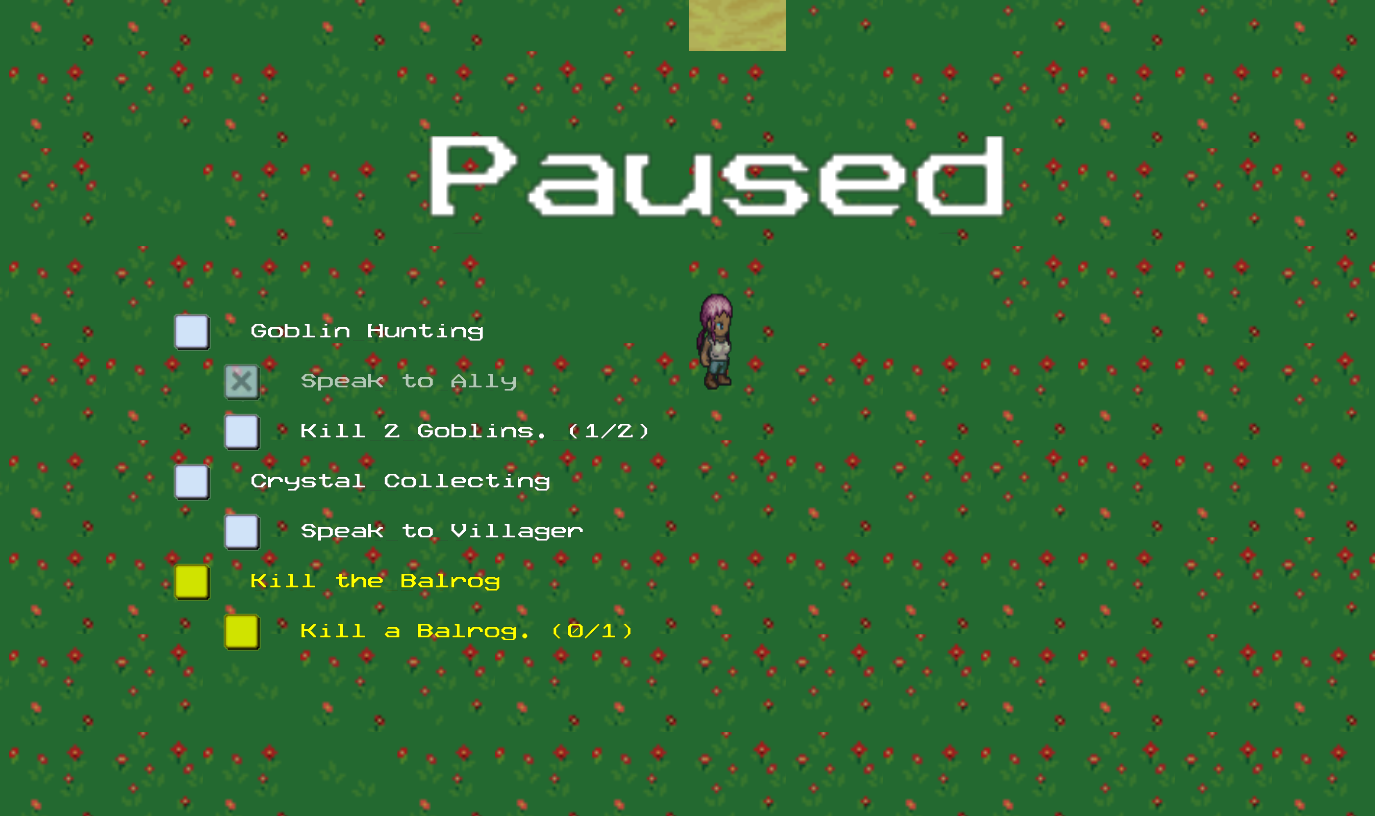
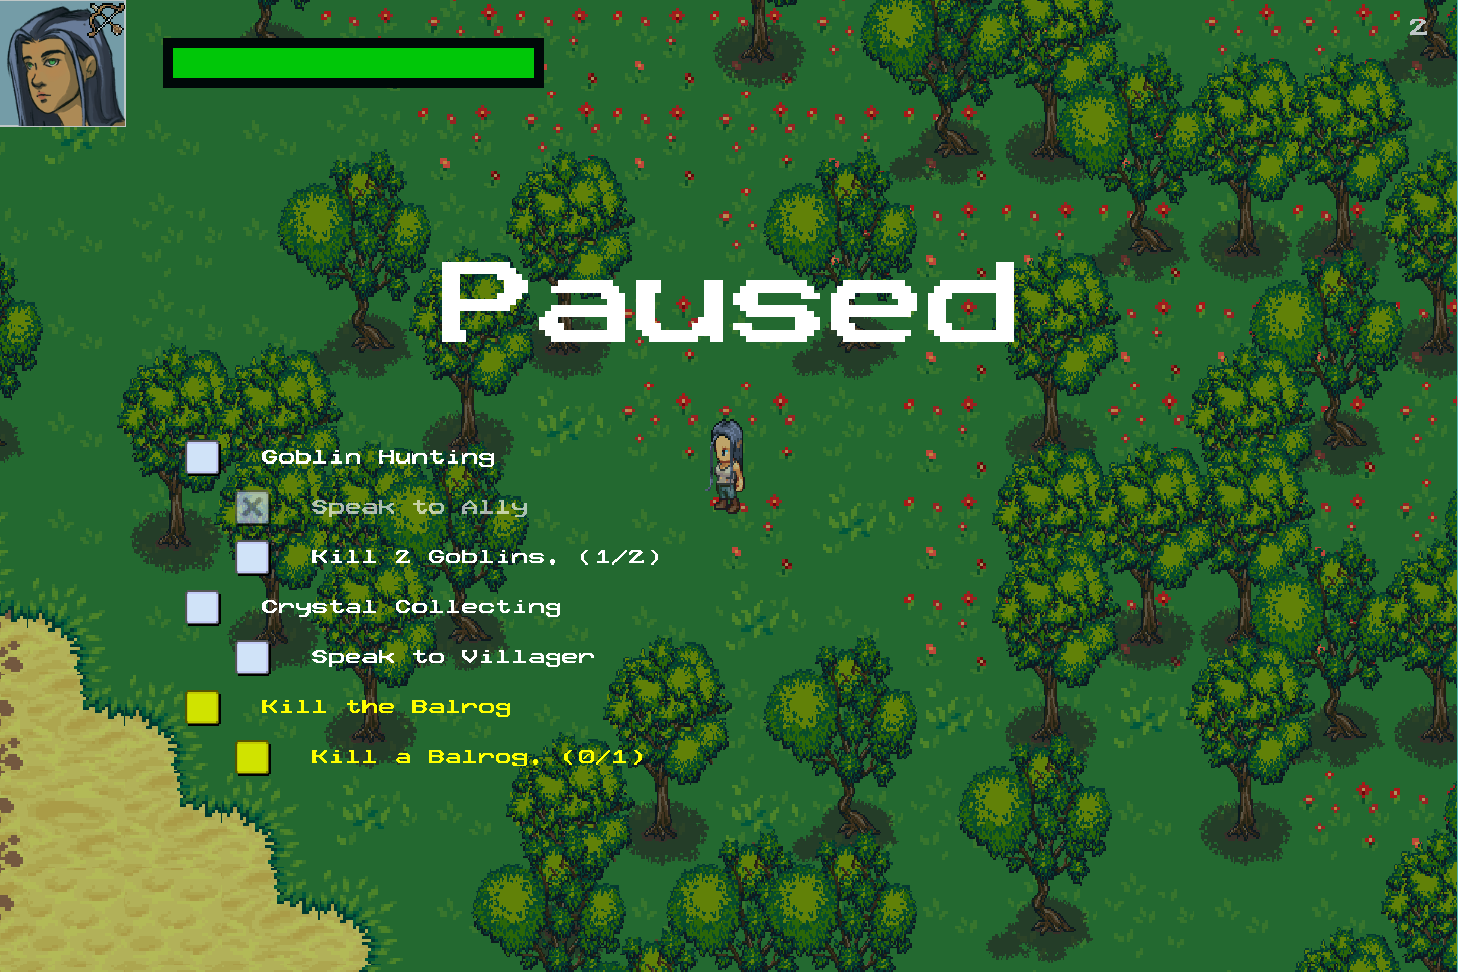
Updated aventure gifs/images and added section for tile edges

diff --git a/adventure.html b/adventure.html
@@ -57,7 +57,7 @@
                 <img class="img-responsive" src="http://placehold.it/750x500" alt=""> 
             </div>-->
 
-            <img src="https://etrizzo.github.io/images/adventure/villagers2.png" width="100%" scrolling="no" style="border:0px #000000 none;" name="UNWelcome" align="center">
+            <img src="https://etrizzo.github.io/images/adventure/villagers3.png" width="100%" scrolling="no" style="border:0px #000000 none;" name="Adventure" align="center">
                 <h3>About Game</h3>
                 <p>Adventure is a 2D roguelike, complete with procedurally generated maps, perma-death, a quest system, and a party system. Originally, this project was assigned over 5 weeks in my first software development class at Guildhall. I later decided to take the game further by continuing development over an 8-week directed focus study, and during my own time outside of class. My goal with development was to move beyond the standard roguelike formula, and give the player a sense of growth from quest to quest. I worked to achieve this by developing my map generation system, and modeling gameplay after my favorite arc in the popular Dungeons and Dragons podcast “The Adventure Zone.” The breadth of this project allowed me to explore many areas of interest for me – including procedural generation, AI, UI, and system design - and will continue to be a great project to return to and polish into a finished game.</p>
                 <p>
@@ -79,6 +79,7 @@
                             <h3>Features</h3>
                             <ul>
                                 <li><a href="#mapsection">Map Generation</a></li>
+                                <li><a href="#edgeSection">Organic Tile Edges</a></li>
                                 <li><a href="#questsection">Quest System</a></li>
                                 <li><a href="#partysection">Party System</a></li>
                             </ul>
@@ -160,6 +161,104 @@
                     </tbody>
                 </table>
 
+
+
+                <hr>
+                <h4 id="edgeSection">Organic Tile Edges</h4> 
+                <div align="center">
+                    <img src = "https://etrizzo.github.io/images/adventure/edge3_step6" align="center" width="100%">
+                </div>
+                <p>As I worked on the map generation more, I found that the maps were starting to look ~really good~ when I was zoomed out and looking at the entire map. But on the actual game screen, while walking around, they still looked very unpolished, because of the harsh edges between tiles. The Liberated Pixel Cup tileset that I was using came with an incomplete set of cosmetic edge tiles for most tile types, so I decided to add a pass after map generation to add these cosmetic overlays appropriately to the procedural terrain.</p>
+               <center><img src = "https://etrizzo.github.io/images/adventure/tilesheet.png" align="center" width="100%"></center>
+                  <div align="center">Liberated Pixel Cup tileset</div>
+                <p>Conceptually, this is just a very specific cellular automata problem. However, because this tileset was missing an edge for every configuration (for instance, a grass tile with only one neighboring grass tile), I couldn't just set the rule for every configuration - there would definitely be invalid tiles on the map, and I'd have to deal with them somehow.. Additionally, I needed a way to determine which edge to place between tile types - should the grass edge go on the sand tile, or should the sand edge go on the grass tile? What about areas where three different tile types meet on one space?</p>
+                <br>
+                <p>
+                    The first step is to establish what kind of edge a tile should have on it. In data, I defined a terrain height for all terrain tiles, and use that to determine which direction an edge should "flow". So now I could know in data, that between grass and sand, grass edges should go on top of sand tiles. Now, for each tile, I can look at the neighboring tiles, and establish what higher-level edge is most common to determine the edge type. Once I know what kind of edge to place, I can look at a set of rules to determine which edge should be placed - or at least, which one is most suitable.
+                </p>
+                
+                <center><img src = "https://etrizzo.github.io/images/adventure/TileDefinition.png" align="center" width="100%"></center>
+                  <div align="center">TileDefinition.xml: Determines which layer a tile should be in, and the height of the terrain. Note that both Grass and Flower tiles point to the Grass edge definition - while flowers are cosmetically different and could easily have different affects in game, they should still be treated like grass for the purpose of placing these edges.</div>
+
+                <p>
+                    Now that I could find an edge to place, I had to plan for situations where there was no clear, single answer for the best edge. I decided to prioritize by the type of terrain, and have a separate sprite layer for each type - edges between ground and water/lava should be highest priority, because there is a gameplay difference between water and ground. After that, it looked best to have the grass layer be on top of any other terrain, regardless of whether it was sand or dirt. The third layer are all of the low priority edges between different types of dirt or sand - nothing necessarily looks out of place if these layers are swapped around, and small inaccuracies in the placement of edges in this layer are pretty unnoticable. To try and minimize this slim chance of strange looking tiles, I decided to add an initial pass to clear invalid configurations, so that the map started out as clean as possible.
+                </p>
+                <p>
+                    So, my pass for edging tiles ended up looking like this:
+                    <ul>
+                        <li>Clear Invalid Tiles</li>
+                        <li>Add "Tufts" where there are single high-level tiles entirely surrounded by lower-level tiles. (i.e., a single patch of grass)</li>
+                        <li>Add Ground Layer->Water Layer and Ground Layer->Lava Layer edges</li>
+                        <li>Add Grass Layer->Earth Layer edges</li>
+                        <li>Add Earth Layer->Earth Layer edges according to terrain height</li>
+                    </ul>
+                    While there are still a few tiles in every map that look a little off, the benefit of having a procedurally generated world that actually looks smooth and organic is well worth it.
+                </p>
+
+                <div id="edgeCarousel" class="carousel" data-ride="carousel" data-interval="false">
+                    <!-- Indicators -->
+                    <ol class="carousel-indicators">
+                        <li data-target="#edgeCarousel" data-slide-to="0" class="active"></li>
+                        <li data-target="#edgeCarousel" data-slide-to="1"></li>
+                        <li data-target="#edgeCarousel" data-slide-to="2"></li>
+                        <li data-target="#edgeCarousel" data-slide-to="3"></li>
+                        <li data-target="#edgeCarousel" data-slide-to="4"></li>
+                    </ol>
+                    <div class="carousel-inner">
+                        <div class="item active">
+                            <!-- Set the first background image using inline CSS below. -->
+                            <img src="https://etrizzo.github.io/images/adventure/edge3_step2.PNG" width="100%" />
+                            <div class="carousel-caption">
+                                <h3>Starting map</h3>
+                            </div></a>
+                        </div>
+                        <div class="item">
+                            <!-- Set the first background image using inline CSS below. -->
+                            <img src="https://etrizzo.github.io/images/adventure/edge3_step3.PNG" width="100%" />
+                            <div class="carousel-caption">
+                                <h3>Cleanup</h3>
+                                Remove invalid tiles and add "tufts"
+                            </div></a>
+                        </div>
+                        <div class="item">
+                            <!-- Set the first background image using inline CSS below. -->
+                            <img src="https://etrizzo.github.io/images/adventure/edge3_step4.PNG" width="100%" />
+                            <div class="carousel-caption">
+                                <h3>High priority edges</h3> 
+                                Edge from Ground Layer to Shore Layer
+                            </div></a>
+                        </div>
+                        <div class="item">
+                            <!-- Set the first background image using inline CSS below. -->
+                            <img src="https://etrizzo.github.io/images/adventure/edge3_step5.PNG" width="100%" />
+                            <div class="carousel-caption">
+                                <h3>Medium priority edges</h3> 
+                                Edge from Grass Layer to Earth Layer
+                            </div></a>
+                        </div>
+                        <div class="item">
+                            <!-- Set the first background image using inline CSS below. -->
+                            <img src="https://etrizzo.github.io/images/adventure/edge3_step6.PNG" width="100%" />
+                            <div class="carousel-caption">
+                                <h3>Low priority edges</h3>
+                                 Edge from light dirt to dark dirt, dirt to sand, etc. Done!
+                            </div></a>
+                        </div>
+                    </div>
+
+
+                    <!-- Controls -->
+                    <a class="left carousel-control" href="#edgeCarousel" data-slide="prev">
+                        <span class="glyphicon glyphicon-chevron-left"></span>
+                        <span class="sr-only">Previous Step</span>
+                    </a>
+                    <a class="right carousel-control" href="#edgeCarousel" data-slide="next">
+                        <span class="glyphicon glyphicon-chevron-right"></span>
+                        <span class="sr-only">Next Step</span>
+                    </a>
+                </div>
+                <div align="center"> Adding edges: click left and right to step through the edging process for the maps.</div>
+
                 <hr>
 
 <!-- Game Feature Template -->
@@ -169,7 +268,7 @@
                 </div>
                 <br>
                 <p>It was important to me to add a robust quest system to the game, to really get the feel of an RPG. The game has both main quests and side quests, where completing the main quest will progress the player to the next encounter, and completing side quests will grant the player various rewards, if completed. Quests have 3 components: Quest steps, Quest giver, and Quest Reward.</p>
-                 <center> <img src = "https://etrizzo.github.io/images/adventure/check_quest.PNG"></center>
+                 <center> <img src = "https://etrizzo.github.io/images/adventure/check_quest.PNG" align="center" width="100%"></center>
                  <div align="center"> Quest.cpp: quest checks for completion every frame </div>
                  <br>
                 <p>
@@ -179,7 +278,7 @@
                 <p>
                     The Quest Giver is how the quest is started – now, the quest giver is either “none” (the player starts with the quest information) or an actor of a specified type. If the quest giver is an actor, the map will spawn an actor of that type on the map, and assign the quest to that actor. The player can then talk to the actor to learn more about the quest, and progress the quest.
                 </p>
-                  <center><img src = "https://etrizzo.github.io/images/adventure/quest_reward.PNG" align="center"></center>
+                  <center><img src = "https://etrizzo.github.io/images/adventure/quest_reward.PNG" align="center" width="100%"></center>
                   <div align="center"> QuestReward.hpp: virtual class where different rewards inherit and implement their functionality</div>
                     <br>
                 <p>
@@ -196,7 +295,7 @@
                     <img src = "https://etrizzo.github.io/images/adventure/ally_gameplay.gif" align="center" width="100%">
                 </div>
                 <p>In each encounter, the player can complete a special side-quest to gain an ally in their journey. Allies spawn with a quest near villages, and send the player on lengthy missions. Once you’ve completed the quest, the ally will join your party, and fight with you. The player can swap between controlling members of their party, and can equip any member of the party with equipment. </p>
-               <center><img src = "https://etrizzo.github.io/images/adventure/party_swap.png" align="center"></center>
+               <center><img src = "https://etrizzo.github.io/images/adventure/party_swap.png" align="center" width="100%"></center>
                   <div align="center"> QuestReward.hpp: virtual class where different rewards inherit and implement their functionality</div>
                 <p>In code, the player’s party is made up of a list of Actor entities, with a pointer to the current controlled actor, and an index for where that actor is in the array. Switching between party members is as simple as incrementing that index, and modding the result to loop through the list. The player’s inventory is shared across all party members – whenever an actor joins the party, their entire inventory is added to the party. This system allows for any number of actors to join the party, and easily distribute equipment as the player sees fit. Though, for gameplay purposes, the number of party members should be limited.</p>
                 <br>
@@ -284,7 +383,7 @@
                         <li>Save system</li>
                         <li>Melee combat</li>
                         <li>Character creation</li>
-                        <li>Ally backstort generation</li>
+                        <li>Ally dialogue generation</li>
                         <li>Timed encounters</li>
                         <li>Tutorial level</li>
                         <li>Thematic elements</li>

diff --git a/index.html b/index.html
@@ -65,7 +65,7 @@
             </div>
             <div class="item">
                 <!-- Set the first background image using inline CSS below. -->
-                <div class="fill" style="background-image:url('https://etrizzo.github.io/images/adventure/villagers.png');"></div>
+                <div class="fill" style="background-image:url('https://etrizzo.github.io/images/adventure/villagers3.png');"></div>
                 <a href = "adventure.html"><div class="carousel-caption">
                     <h2>Adventure Rogue-like</h2>
                 </div></a>
